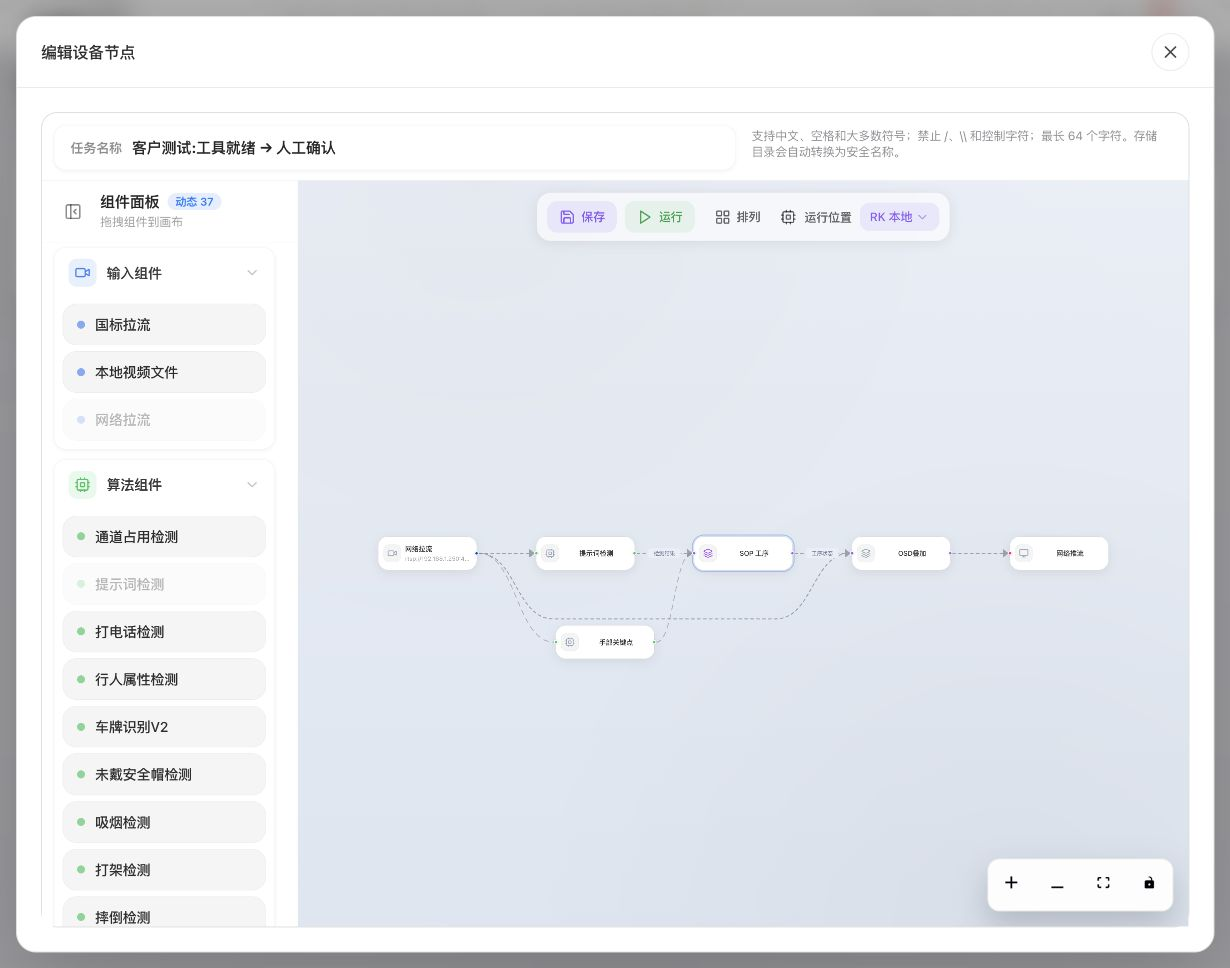
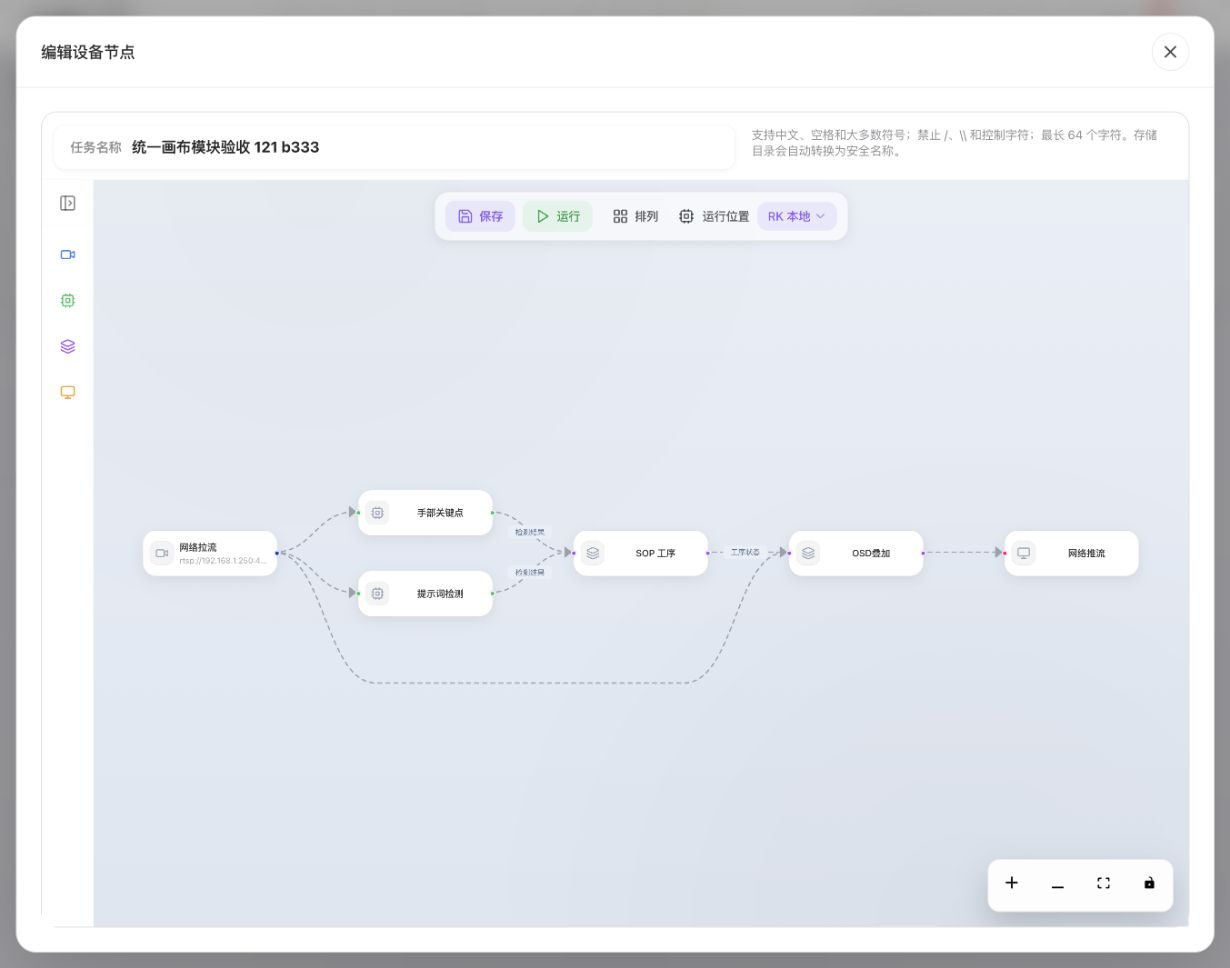
docs: replace SOP flow screenshots with clear parallel branches

diff --git a/docs/en/sop/index.md b/docs/en/sop/index.md
@@ -710,6 +710,26 @@ The small region label under a diagram object is operational information. It is 
 
 An editor draft, a saved task, and a running task are different states. Closing a window alone does not prove deployment.
 
+
+#### 4.10.1 Reading the example connections {#workspace-reference--flow-routing}
+
+[![Actual parallel hand and object branches with video routed below into OSD](../../assets/sop/en-32-flow-routing.jpg)](../../assets/sop/en-32-flow-routing.jpg)
+
+*Figure 4-1: A close-up captured directly from the live canvas. Hand and object detection occupy separate rows; the original video follows the lower bypass. No nodes or connections were redrawn.*
+
+| Connection | What it carries |
+|---|---|
+| Network Pull Stream → Hand Landmarks | Camera images for visible-hand detection |
+| Network Pull Stream → Prompt Detection | The same images for object detection |
+| Hand Landmarks and Prompt Detection → SOP Workflow | Detection results used to evaluate step conditions |
+| Network Pull Stream → OSD Overlay | Original video used as the overlay background |
+| SOP Workflow → OSD Overlay | Current SOP status |
+| OSD Overlay → Network Streaming | Output video with overlaid guidance |
+
+The two detection branches are parallel data sources. Their positions do not mean “operate the hand first, then the object”; order comes from the steps and conditions inside SOP. An object-only plan does not need a hand-detection branch.
+
+In other layouts, paths may cross on the canvas. A crossing by itself does not join the signals: follow the arrows to their actual nodes and ports. Use **Arrange** to organize the display, then check the connections. Do not add or remove connections just to reproduce a picture's appearance.
+
 ### 4.11 Change-impact reference {#workspace-reference--11-change-impact-reference}
 
 | Change | Recheck at least |

diff --git a/docs/zh/sop/index.md b/docs/zh/sop/index.md
@@ -716,6 +716,26 @@ SOP 将现场要求拆成可观察的条件。例如：
 
 保存后必须核对任务和版本。浏览器草稿、已保存任务、正在运行任务是三个状态，不要仅凭窗口关闭推断现场已应用。
 
+
+#### 4.10.1 示例流程的连线应该怎样看 {#workspace-reference--flow-routing}
+
+[![物件与手部检测并行、视频从下方绕入 OSD 的实际连线近景](../../assets/sop/zh-32-flow-routing.jpg)](../../assets/sop/zh-32-flow-routing.jpg)
+
+*图 4-1：实际网页画布的局部截图。手部与物件检测上下分开，原视频走下方旁路，便于分清检测结果、工序状态与视频画面。未修改截图中的节点或连线。*
+
+| 从哪里到哪里 | 传递的内容 |
+|---|---|
+| 网络拉流 → 手部关键点 | 摄像头画面，供识别可见手部 |
+| 网络拉流 → 提示词检测 | 同一画面，供识别物件 |
+| 手部关键点、提示词检测 → SOP 工序 | 两路检测结果，供工序条件判断 |
+| 网络拉流 → OSD 叠加 | 原始视频画面，作为叠加背景 |
+| SOP 工序 → OSD 叠加 | 当前工序状态 |
+| OSD 叠加 → 网络推流 | 叠加提示后的输出画面 |
+
+两条检测分支是并行的数据来源，不表示“先操作手，再操作物件”；实际先后要求由 SOP 内部工序和条件配置决定。只检查物件的方案，不必增加手部检测分支。
+
+在其他布局中，连线在画布上的路径可能交叉；交叉点本身不代表两个信号相连。核对时应沿箭头查看实际连接的节点和端口。可以用上方“排列”整理显示位置；整理后仍须核对连接关系，不要通过增删连线来模仿图片外观。
+
 ### 4.11 修改影响范围速查 {#workspace-reference--11-修改影响范围速查}
 
 | 修改 | 至少要重新核对 |
